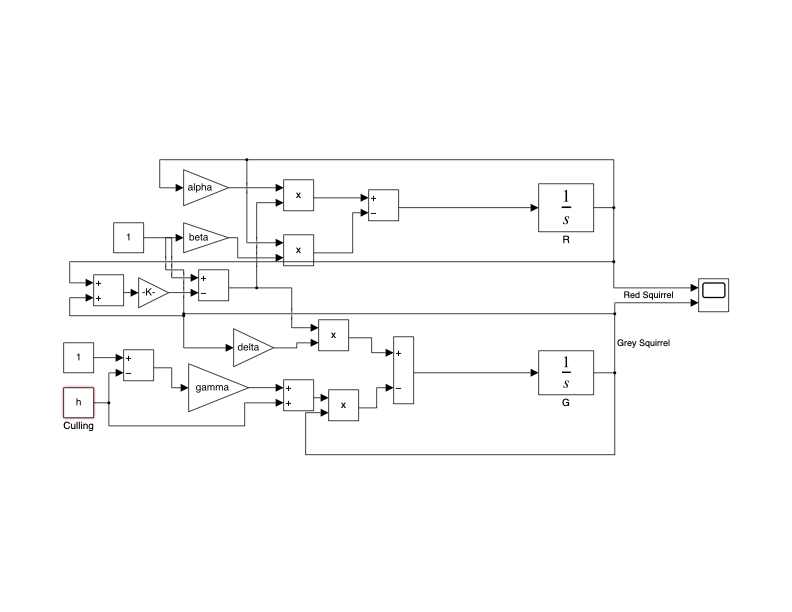
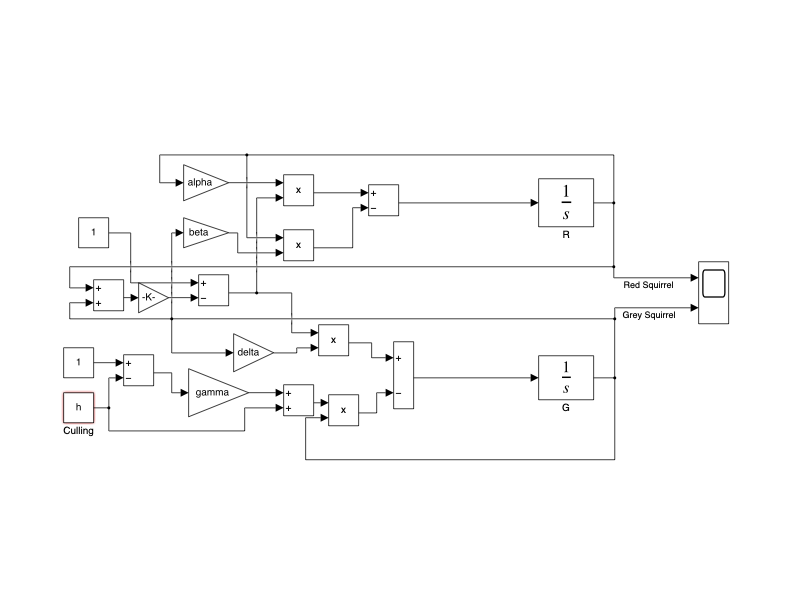
refactor mode

diff --git a/matlab_model.m b/matlab_model.m
@@ -6,12 +6,12 @@ gamma = 0.2;
 delta = 1;
 
 beta = 0:0.05:1;
-culling_rate = 0:0.05:1;
+h = 0:0.05:1;
 
-y20 = zeros(length(beta), length(culling_rate));
+y20 = zeros(length(beta), length(h));
 
 for i = 1:length(beta)
-    for j = 1:length(culling_rate)
+    for j = 1:length(h)
 
         in = Simulink.SimulationInput(mdl);
         in = in.setVariable('beta', beta(i));